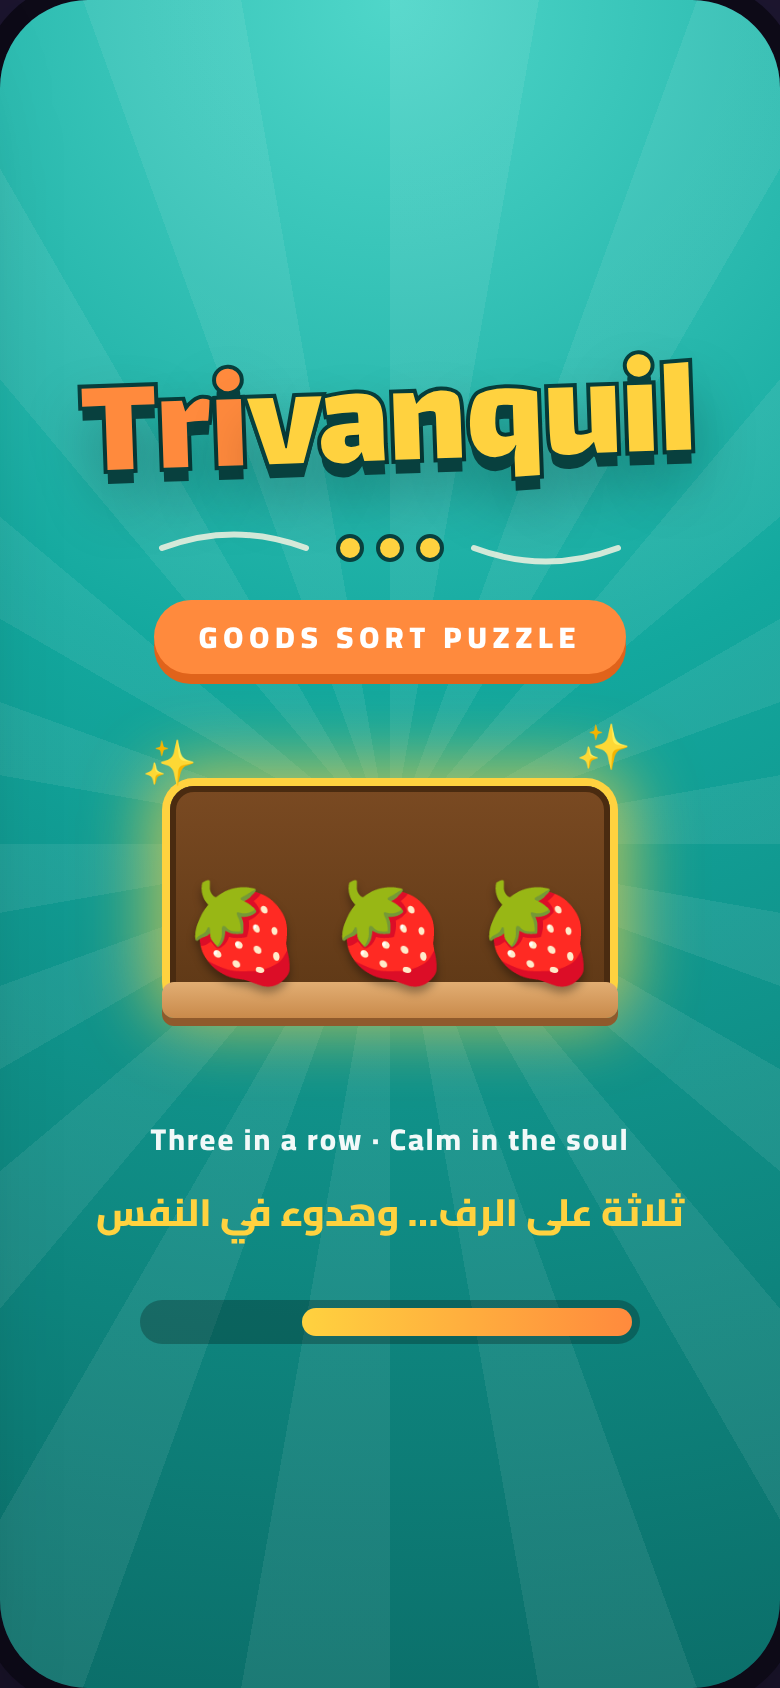
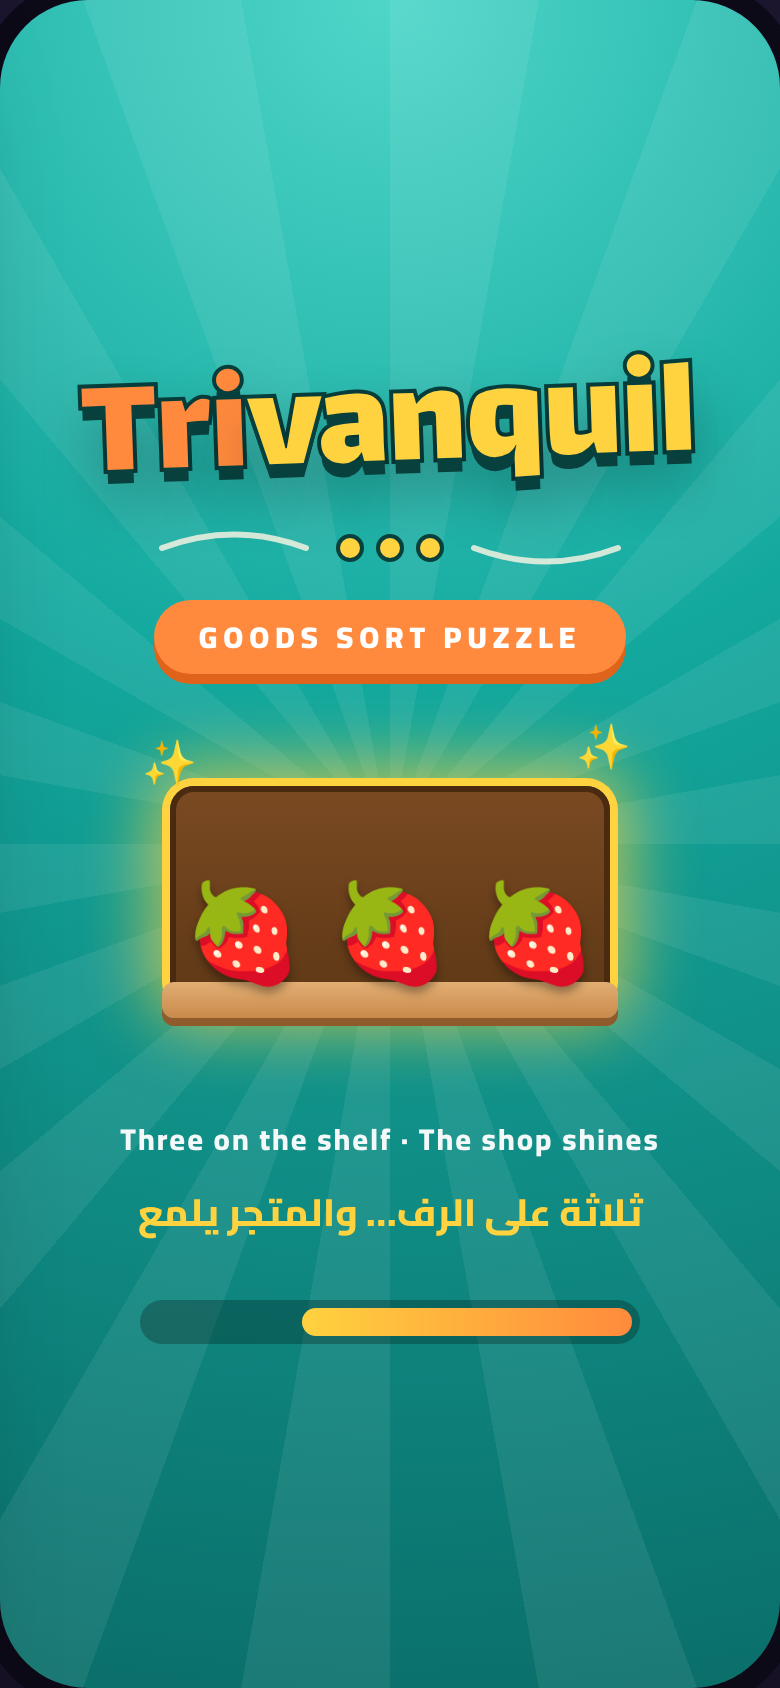
Mockups: simpler slogan
Claude-Session: https://claude.ai/code/session_0198GSpUHpAsMi38EfXjb44N

Changed region(s): [[0.1231, 0.6469, 0.8923, 0.7393], [0.1538, 0.6469, 0.2154, 0.6777]]

diff --git a/design/mockups/shelf-sort-mockups.html b/design/mockups/shelf-sort-mockups.html
@@ -357,7 +357,7 @@ body { font-family: "Cairo", sans-serif; background: #1d1630; color: var(--ink);
 <header class="page-head">
   <div class="app-icon" id="icon"><span class="st">★★★</span><div class="ish"><i class="emoji">🍓</i><i class="emoji">🍓</i><i class="emoji">🍓</i></div></div>
   <div class="wm"><span class="tri">Tri</span><span class="rest">vanquil</span></div>
-  <div class="slogan-en">Three in a row · Calm in the soul — ثلاثة على الرف… وهدوء في النفس</div>
+  <div class="slogan-en">Three on the shelf · The shop shines — ثلاثة على الرف… والمتجر يلمع</div>
   <p style="margin-top:6px">تصاميم شاشات اللعبة — لعبة ألغاز فرز عائلية خالية من المحرمات</p>
 </header>
 
@@ -379,8 +379,8 @@ body { font-family: "Cairo", sans-serif; background: #1d1630; color: var(--ink);
       <div class="front"><i class="emoji" style="font-size:48px">🍓</i><i class="emoji" style="font-size:48px">🍓</i><i class="emoji" style="font-size:48px">🍓</i></div>
     </div>
   </div>
-  <div class="slogan-en" style="margin-top:52px">Three in a row · Calm in the soul</div>
-  <div class="slogan-ar">ثلاثة على الرف… وهدوء في النفس</div>
+  <div class="slogan-en" style="margin-top:52px">Three on the shelf · The shop shines</div>
+  <div class="slogan-ar">ثلاثة على الرف… والمتجر يلمع</div>
   <div class="loader"><i></i></div>
 </div>
 <figcaption>1. شاشة البداية<span>الشعار والتحميل</span></figcaption>
